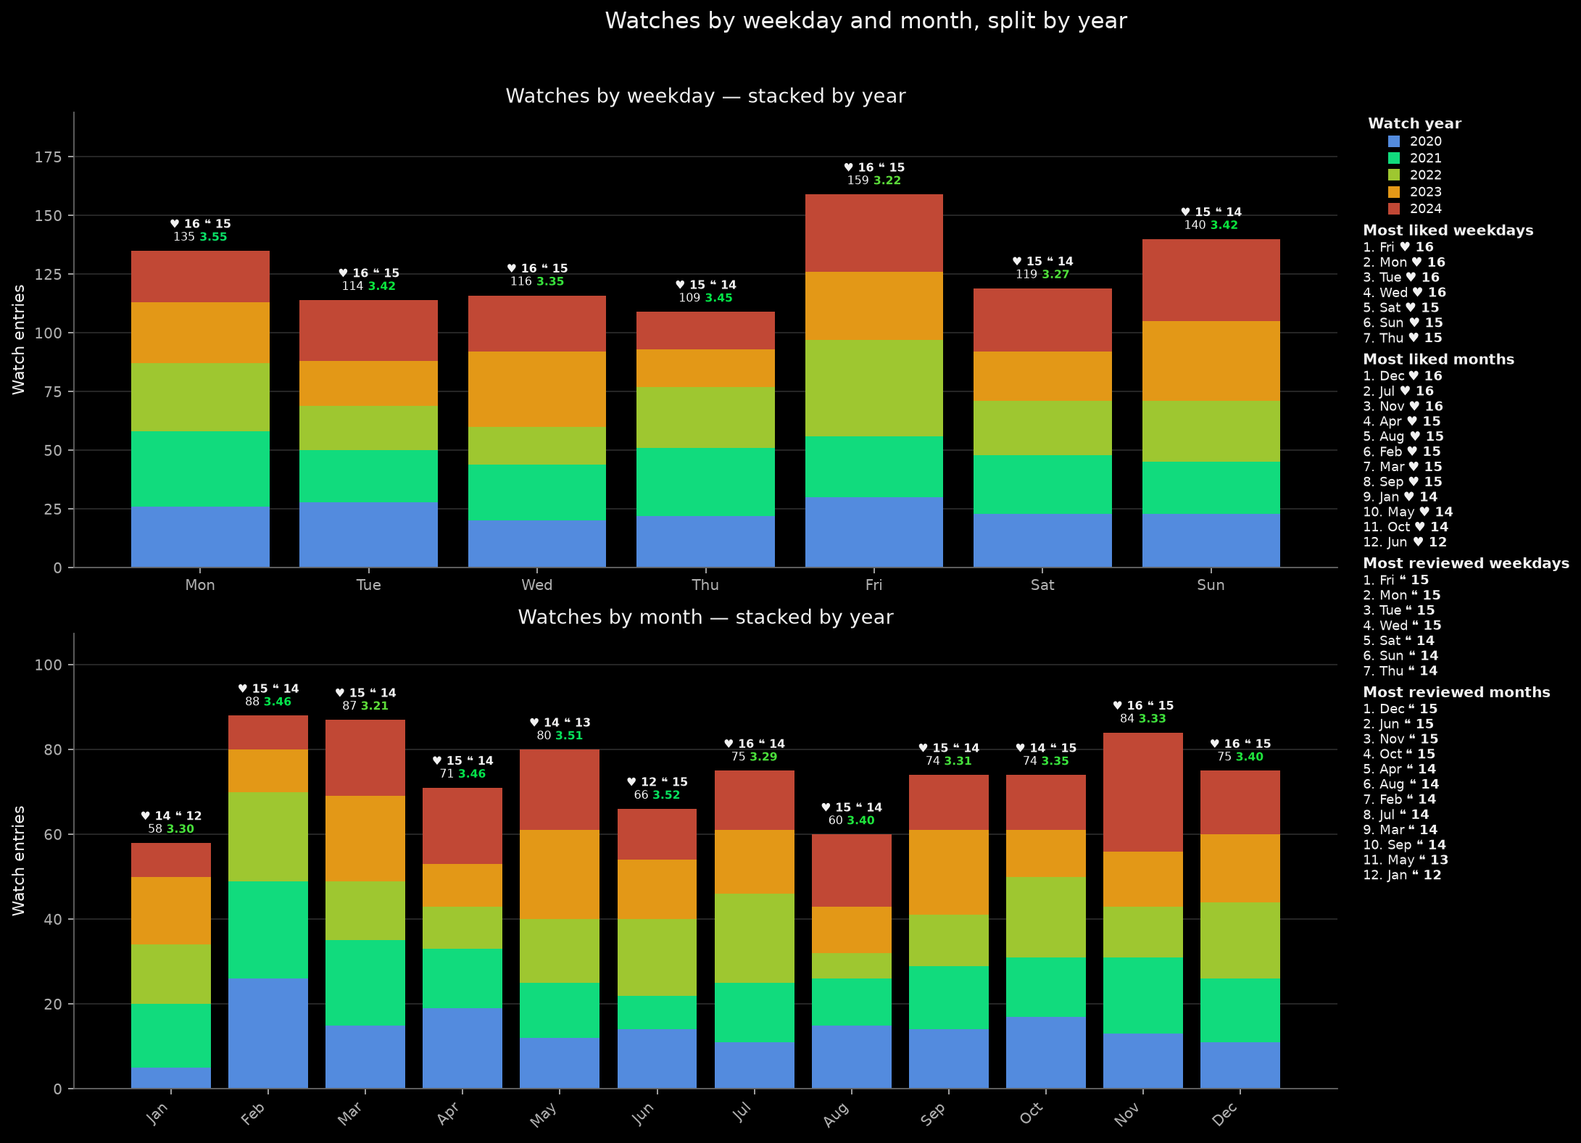
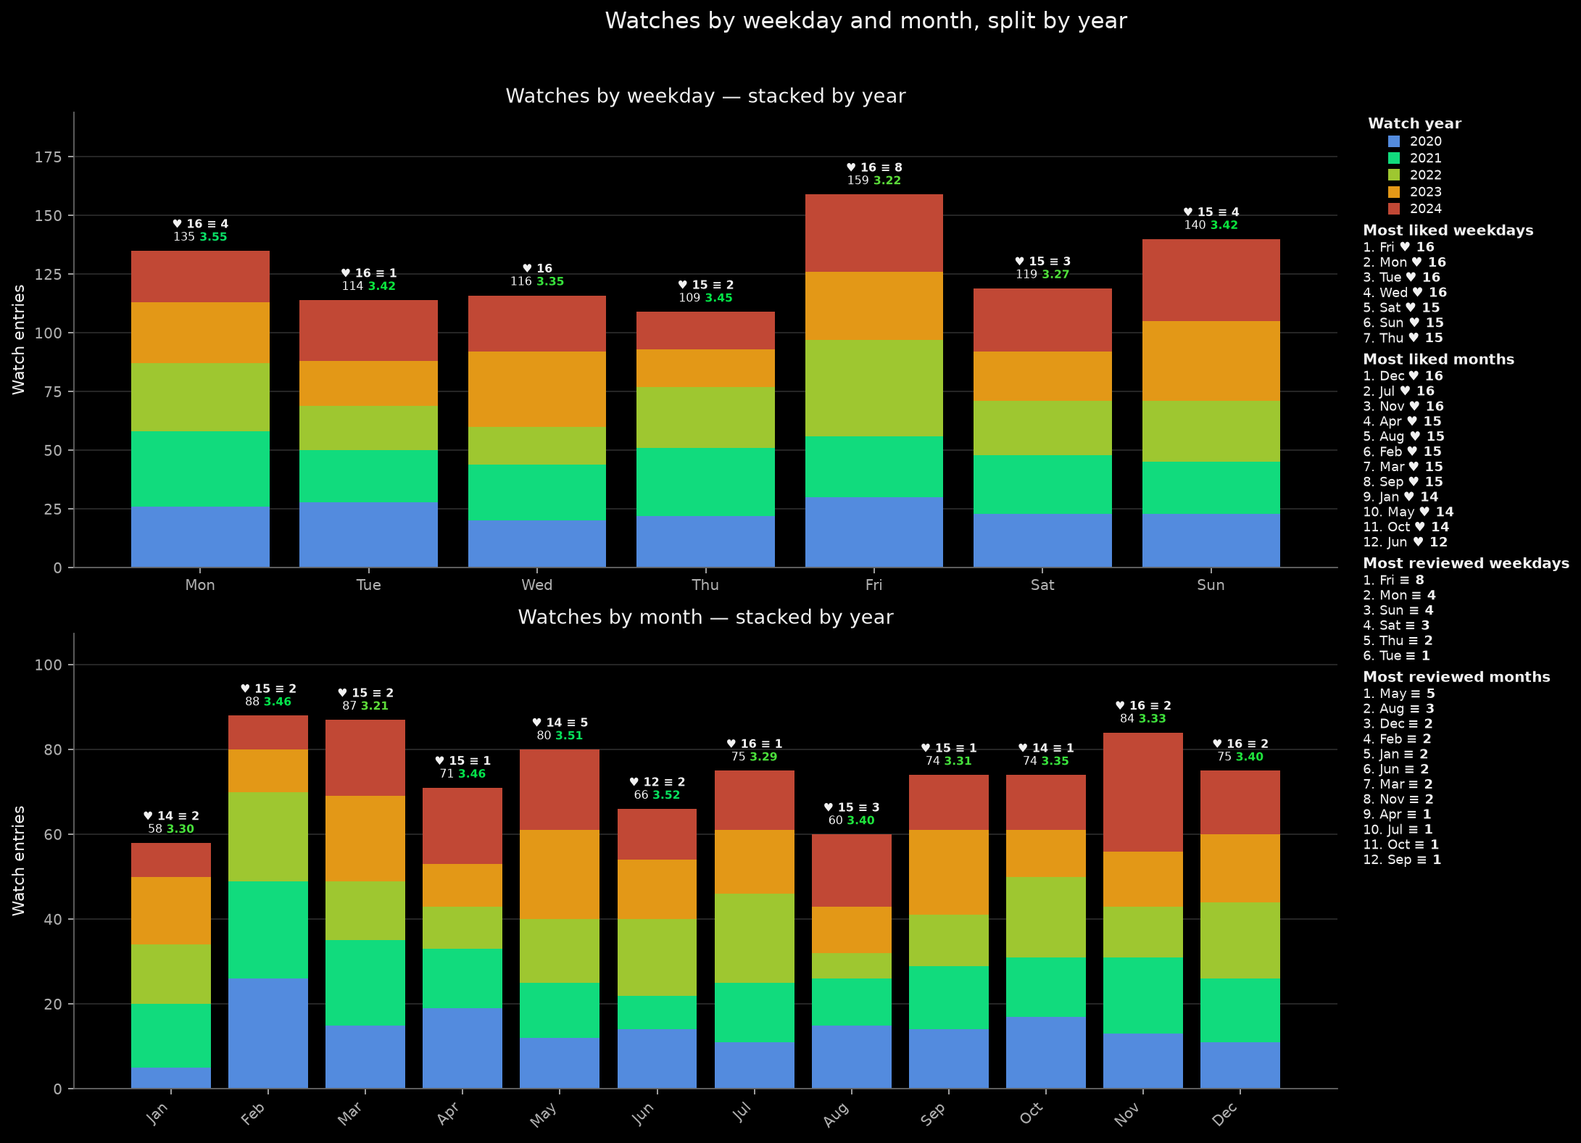
Bold ≡ marks, avg-bar overflow, refresh README gallery.
Reserve ♥/≡ width when ellipsizing avg-rating hbar names; short names and
short bars overflow the full left label then tip. Bold ≡ (and panel counts)
on Most reviewed lists and search HTML. Regenerate docs/images chart PNGs
and captions for ≡, date-bound tips, and the diary side panel.

diff --git a/scripts/letterboxd_top_charts.py b/scripts/letterboxd_top_charts.py
@@ -432,7 +432,7 @@ def draw_watch_year_most_liked_panel(
     Line spacing is compact (display-pixel gaps from measured text height). It
     does not stretch to fill the axes or track bar y-positions on tall hbars.
 
-    Review rows use ``REVIEW_MARK`` (U+2261 ≡).
+    Review rows use bold ``REVIEW_MARK`` (U+2261 ≡) plus a bold count.
     """
     from matplotlib.lines import Line2D
 
@@ -554,8 +554,8 @@ def draw_watch_year_most_liked_panel(
 
         mark_fp = review_mark_fontproperties()
         for rank, (name, count) in enumerate(rank_rows, start=1):
-            # Rank: ``1. Name `` + mark (♥ or ≡) + space + bold count.
-            # Latin and marks stay on DejaVu (theme default).
+            # Rank: ``1. Name `` + bold mark (♥ or ≡) + space + bold count.
+            # Latin and marks stay on DejaVu (theme default). ≡ matches ♥ N weight.
             mark_draw = _mpl_engagement_text(mark)
             head = f"{rank}. {name} "
             head_artist = ax.text(
@@ -581,7 +581,7 @@ def draw_watch_year_most_liked_panel(
                 f"{mark_draw} ",
                 transform=ax.transAxes,
                 fontsize=fontsize,
-                fontweight="normal",
+                fontweight="bold",
                 color=FG,
                 ha="left",
                 va="top",
@@ -1034,20 +1034,20 @@ def chart_rating_hbar(
 ) -> bool:
     """Horizontal bars for TMDB avg tops.
 
-    Names are white with a black stroke and start inside the bar. The label is
-    measured against the bar width minus a small end pad. A bar that holds at
-    least ``SHORT_BAR_NAME_CHARS`` name characters keeps the label inside,
-    ellipsized only when the full name does not fit, so the text reaches nearly
-    to the tip. A shorter bar shows exactly that many characters plus ``...``
-    and overflows to the right past the tip.
+    Names are white with a black stroke. Rank + name + optional ``♥ N`` /
+    ``≡ M`` form one left label. A bar that holds the full label (or at least
+    ``SHORT_BAR_NAME_CHARS`` name characters plus the engagement suffix) keeps
+    that label inside; the name ellipsizes earlier so ♥/≡ still fit. When the
+    natural name is shorter than that threshold, or the bar cannot hold fifteen
+    name characters plus engagement, the whole left label overflows to the
+    right of the bar tip; the mean/(n) tip sits after it with a clear gap.
+    Long-name overflow uses fifteen characters + ``...`` then ♥/≡.
     ascending=False → best at top; True → worst at top.
     The mean to the right is bold and colored on the rating scale. The rated-film
     count sits beside it in regular light text as ``(12)``.
 
-    Category rows may set ``liked_count`` / ``reviewed_count`` (films in that
-    average): the label becomes ``Name ♥ N □ M`` when counts > 0. Film-title
-    rows may set ``liked`` / ``reviewed`` True: bare marks append after the
-    visible title, including after ``...`` truncation.
+    Category rows may set ``liked_count`` / ``reviewed_count``. Film-title rows
+    may set ``liked`` / ``reviewed`` True (bare marks after the visible title).
     """
     import matplotlib.patheffects as path_effects
 
@@ -1135,6 +1135,21 @@ def chart_rating_hbar(
                 hi = mid - 1
         return best
 
+    def engagement_suffix(
+        *,
+        film_liked: bool,
+        film_reviewed: bool,
+        liked_count: int,
+        reviewed_count: int,
+    ) -> str:
+        """Bare ♥/≡ for film rows; `` ♥ N ≡ M`` for category counts; else empty."""
+        if film_liked or film_reviewed:
+            return film_title_with_engagement_marks(
+                "", liked=film_liked, reviewed=film_reviewed
+            )
+        tip = format_engagement_tip(liked_count, reviewed_count)
+        return f" {tip}" if tip else ""
+
     rows_drawn = []
     for (
         yi,
@@ -1162,39 +1177,51 @@ def chart_rating_hbar(
         yi, avg = float(yi), float(avg)
         prefix = f"{rank}. "
         name = str(label)
+        engage = engagement_suffix(
+            film_liked=film_liked,
+            film_reviewed=film_reviewed,
+            liked_count=liked_count,
+            reviewed_count=reviewed_count,
+        )
+        engage_px = name_width(engage) if engage else 0.0
         inside_px = max(0.0, x_px(avg, yi) - end_pad_px - x_px(pad_left, yi))
-        fitted = name_chars_that_fit(prefix, name, inside_px)
-        inside = fitted >= len(name) or fitted >= SHORT_BAR_NAME_CHARS
-        if inside:
-            shown = _fit_text_to_px(
+        # Reserve engagement width so name ellipsizes earlier when needed.
+        name_budget_px = max(0.0, inside_px - engage_px)
+        fitted = name_chars_that_fit(prefix, name, name_budget_px)
+        full_w = name_width(prefix + name + engage)
+
+        if len(name) < SHORT_BAR_NAME_CHARS:
+            # Short natural name: whole left label outside, tip follows.
+            shown = prefix + name + engage
+            inside = False
+        elif full_w <= inside_px:
+            shown = prefix + name + engage
+            inside = True
+        elif fitted >= SHORT_BAR_NAME_CHARS:
+            # Keep inside: truncate name into the reserved budget, then ♥/≡.
+            name_part = _fit_text_to_px(
                 ax,
                 renderer,
                 prefix + name,
-                inside_px,
+                name_budget_px,
                 fontsize=name_fs,
                 fontweight="bold",
                 path_effects=stroke,
                 ellipsis=NAME_ELLIPSIS,
             )
+            shown = name_part + engage
+            inside = True
         else:
-            shown = prefix + name[:SHORT_BAR_NAME_CHARS].rstrip() + NAME_ELLIPSIS
-        # Hearts / review marks sit after the visible (possibly truncated) title.
-        if film_liked or film_reviewed:
-            shown = film_title_with_engagement_marks(
-                shown, liked=film_liked, reviewed=film_reviewed
+            # Short bar / long name: 15 chars + ... + engagement, overflowing.
+            shown = (
+                prefix
+                + name[:SHORT_BAR_NAME_CHARS].rstrip()
+                + NAME_ELLIPSIS
+                + engage
             )
-        elif liked_count > 0 or reviewed_count > 0:
-            shown = category_label_with_engagement_counts(
-                shown, liked_count, reviewed_count
-            )
-        # Keep marks readable: do not clip them away inside short bars.
-        clip_inside = (
-            inside
-            and not film_liked
-            and not film_reviewed
-            and liked_count <= 0
-            and reviewed_count <= 0
-        )
+            inside = False
+
+        clip_inside = inside
         # Optional mark font when theme default lacks ≡ (normally unused).
         note_fp = review_mark_fontproperties()
         main_shown = shown
@@ -1235,10 +1262,12 @@ def chart_rating_hbar(
                 fontweight="bold",
                 color=ON_BAR,
                 path_effects=stroke,
-                clip_on=False,
+                clip_on=clip_inside,
                 zorder=5,
                 fontproperties=note_fp,
             )
+            if clip_inside:
+                note_artist.set_clip_path(bar)
             anchor = note_artist
         rows_drawn.append((anchor, inside, yi, avg, rated))
 
@@ -1255,7 +1284,10 @@ def chart_rating_hbar(
         mean_x = avg + mean_after_bar
         if not inside:
             label_end = txt.get_window_extent(renderer=renderer).x1 + overflow_gap_px
-            mean_x = max(mean_x, float(ax.transData.inverted().transform((label_end, 0))[0]))
+            mean_x = max(
+                mean_x,
+                float(ax.transData.inverted().transform((label_end, 0))[0]),
+            )
         # Mean is bold and rating-colored; ``(k)`` stays regular light text beside it.
         mean_label = f"{avg:.2f}"
         style = count_avg_text_style(mean_label)

diff --git a/scripts/test_letterboxd_top_charts.py b/scripts/test_letterboxd_top_charts.py
@@ -1254,7 +1254,7 @@ def test_top_rewatches_side_panel_no_most_liked_library_reviews(
 def test_release_years_rating_labels_include_engagement_counts(
     tmp_path: Path | None = None,
 ):
-    """Release years higher/lower: in-bar ``1. 2001 ♥ 10 ≡ 12`` when counts > 0."""
+    """Release years: ``1. 2001 ♥ 10 ≡ 12``; year names <15 overflow then tip."""
     out = Path(tmp_path) if tmp_path is not None else Path("/tmp/lb-release-year-engage")
     out.mkdir(parents=True, exist_ok=True)
     rows = [
@@ -1266,11 +1266,16 @@ def test_release_years_rating_labels_include_engagement_counts(
     # Capture text artists from chart_rating_hbar via save hook on top_charts.
     import letterboxd_top_charts as charts
 
-    captured: list = []
+    captured: dict = {"texts": [], "extent": {}}
     real_save = charts.save_dark_figure
 
     def grab(fig, dest, **kwargs):
-        captured.extend([t.get_text() for ax in fig.axes for t in ax.texts])
+        ax = fig.axes[0]
+        renderer = fig.canvas.get_renderer()
+        captured["texts"] = list(ax.texts)
+        captured["extent"] = {
+            t.get_text(): t.get_window_extent(renderer=renderer) for t in ax.texts
+        }
         return real_save(fig, dest, **kwargs)
 
     charts.save_dark_figure = grab
@@ -1283,13 +1288,106 @@ def test_release_years_rating_labels_include_engagement_counts(
         )
     finally:
         charts.save_dark_figure = real_save
-    joined = "\n".join(captured)
-    assert f"1. 2001 {LIKED_HEART} 10 {REVIEW_NOTE} 12" in joined
+    joined = "\n".join(t.get_text() for t in captured["texts"])
+    label = f"1. 2001 {LIKED_HEART} 10 {REVIEW_NOTE} 12"
+    assert label in joined
     assert f"2. 1999 {REVIEW_NOTE} 3" in joined
     assert f"3. 1988 {LIKED_HEART} 2" in joined
     assert "4. 1977" in joined
     assert f"4. 1977 {LIKED_HEART}" not in joined
     assert f"4. 1977 {REVIEW_NOTE}" not in joined
+    # Short year name → whole label outside; tip after it (no overlap).
+    by_text = {t.get_text(): t for t in captured["texts"]}
+    assert by_text[label].get_clip_on() is False
+    assert captured["extent"]["4.50"].x0 > captured["extent"][label].x1
+
+
+def test_avg_hbar_engagement_reserves_space_and_short_name_overflows(
+    tmp_path: Path | None = None,
+):
+    """Ellipsis reserves ♥/≡ inside; name <15 or short bar → whole label outside then tip."""
+    import letterboxd_top_charts as charts
+
+    out = Path(tmp_path) if tmp_path is not None else Path("/tmp/lb-avg-engage-overflow")
+    out.mkdir(parents=True, exist_ok=True)
+    long_name = "Happy Madison Productions International Studios"
+    rows = [
+        # Long bar + long name + engagement: stay inside; name may ellipsize before ♥/≡.
+        {
+            "name": long_name,
+            "avg": 4.6,
+            "rated": 12,
+            "liked_count": 3,
+            "reviewed_count": 2,
+        },
+        # Short natural name: whole label outside even on a mid rating.
+        {
+            "name": "A24",
+            "avg": 2.5,
+            "rated": 5,
+            "liked_count": 4,
+            "reviewed_count": 1,
+        },
+        # Short bar + long name: 15 chars + ... + engagement outside.
+        {
+            "name": "di Bonaventura Pictures",
+            "avg": 0.6,
+            "rated": 3,
+            "liked_count": 1,
+            "reviewed_count": 2,
+        },
+    ]
+    captured: dict = {}
+    real_save = charts.save_dark_figure
+
+    def grab(fig, dest, **kwargs):
+        ax = fig.axes[0]
+        renderer = fig.canvas.get_renderer()
+        captured["texts"] = list(ax.texts)
+        captured["extent"] = {
+            t.get_text(): t.get_window_extent(renderer=renderer) for t in ax.texts
+        }
+        captured["bars"] = [
+            patch.get_window_extent(renderer=renderer) for patch in ax.patches
+        ]
+        real_save(fig, dest, **kwargs)
+
+    charts.save_dark_figure = grab
+    try:
+        assert chart_rating_hbar(
+            rows,
+            out / "engage-overflow.png",
+            title="Studios — lower rating",
+            limit=3,
+        )
+    finally:
+        charts.save_dark_figure = real_save
+
+    by_text = {t.get_text(): t for t in captured["texts"]}
+    short_outside = f"2. A24 {LIKED_HEART} 4 {REVIEW_NOTE} 1"
+    assert short_outside in by_text
+    assert by_text[short_outside].get_clip_on() is False
+    assert captured["extent"]["2.50"].x0 > captured["extent"][short_outside].x1
+
+    # Overflow long name: 15 chars + ... + spaced ♥/≡, tip after.
+    overflow = f"3. di Bonaventura... {LIKED_HEART} 1 {REVIEW_NOTE} 2"
+    assert overflow in by_text
+    assert by_text[overflow].get_clip_on() is False
+    assert captured["extent"]["0.60"].x0 > captured["extent"][overflow].x1
+    short_bar = min(captured["bars"], key=lambda box: box.width)
+    assert captured["extent"][overflow].x0 < short_bar.x1 < captured["extent"][overflow].x1
+
+    # Long inside label keeps engagement; tip sits past the bar (not under the name).
+    inside_labels = [
+        t for t in captured["texts"] if t.get_text().startswith("1. ") and LIKED_HEART in t.get_text()
+    ]
+    assert len(inside_labels) == 1
+    inside = inside_labels[0]
+    assert inside.get_clip_on() is True
+    assert REVIEW_NOTE in inside.get_text()
+    assert inside.get_text().endswith(f"{REVIEW_NOTE} 2")
+    long_bar = max(captured["bars"], key=lambda box: box.width)
+    assert captured["extent"]["4.60"].x0 > long_bar.x1
 
 def test_views_count_bars_show_avg_or_dash(tmp_path: Path | None = None):
     """Year and day count bars: white count, bold colored mean, dash if unrated."""
@@ -1622,6 +1720,7 @@ if __name__ == "__main__":
     test_rating_hbar_long_names_no_overlap()
     test_short_bars_overflow_fifteen_chars_long_bars_keep_name_inside()
     test_ellipsis_reaches_the_bar_tip_when_more_than_fifteen_fit()
+    test_avg_hbar_engagement_reserves_space_and_short_name_overflows()
     test_rating_hbar_worst_skips_short_slate()
     test_watches_by_genre_stacked_count()
     test_non_date_count_charts_include_watched_only()

diff --git a/README.md b/README.md
@@ -12,25 +12,25 @@ You send the ZIP from Letterboxd → Settings → Import & Export → Export You
 
 *The wizard asks one question at a time. Tap a button or type a reply.*
 
-![Bar chart of film watches per year; tips show ♥ / ≡ counts, then count and a bold colored average](docs/images/watches-by-year.png)
+![Bar chart of film watches per year; tips show bold ♥ / ≡ counts, then count and a bold colored average](docs/images/watches-by-year.png)
 
-*Watches per year. Above each bar: `♥ N ≡ M` when likes or reviews fall in that year, then the white count and the bold colored average. Five years use the even palette midpoints (not the three logo knots alone).*
+*Watches per year. Above each bar: bold `♥ N ≡ M` when likes fall among that year’s watches or reviews were logged in that year (`reviews.csv` Date), then the white count and the bold colored average. Five years use the even palette midpoints (not the three logo knots alone).*
 
 ![Weekday and month bar charts stacked by watch year, with Most liked and Most reviewed side lists](docs/images/weekday-month-by-year.png)
 
-*When you watch: weekdays and months, stacked by watch year. Tips are the same count + average pair, with `♥` / `≡` on a line above. The right column is Watch year, then **Most liked weekdays** / **Most liked months**, then **Most reviewed** for each.*
+*When you watch: weekdays and months, stacked by watch year. Tips are the same count + average pair, with bold `♥` / `≡` on a line above (`≡` buckets use review Date). The right column is Watch year, then **Most liked weekdays** / **Most liked months**, then **Most reviewed** for each.*
 
-![Horizontal bars of the best-rated release years with averages and rated-film counts](docs/images/release-years-higher-rating.png)
+![Horizontal bars of the best-rated release years with ♥ / ≡ in the labels and averages at the tip](docs/images/release-years-higher-rating.png)
 
-*Release years with the highest average rating, among years with at least 4 rated films. Bar color follows the rating scale on the left; the tip is the bold colored mean and `(n)` unique rated films.*
+*Release years with the highest average rating, among years with at least 4 rated films. Bar color follows the rating scale on the left. Short year names keep `♥ N` / `≡ M` with the rank label; the tip is the bold colored mean and `(n)` unique rated films, past any overflowing label.*
 
-![Directors with the lowest average rating; short bars overflow fifteen letters; ♥ / ≡ counts sit in the name](docs/images/directors-lower-rating.png)
+![Directors with the lowest average rating; short bars overflow fifteen letters; bold ♥ / ≡ counts sit in the name](docs/images/directors-lower-rating.png)
 
-*Directors with the lowest average rating (at least 4 rated films). A bar too short for 15 letters shows the first 15 and an ellipsis. Liked / reviewed counts appear as `♥ N` / `≡ M` beside the name when N or M is above zero.*
+*Directors with the lowest average rating (at least 4 rated films). A bar too short for 15 name letters shows the first 15 and an ellipsis, then bold `♥ N` / `≡ M`, overflowing right so the tip stays clear. Longer bars keep the label inside and ellipsize the name earlier so the metrics still fit.*
 
-![Twenty directors from a 4.80 average down to 1.00, with ♥ / ≡ counts and a smooth purple-to-burgundy scale](docs/images/directors-higher-rating-20.png)
+![Twenty directors from a 4.80 average down to 1.00, with bold ♥ / ≡ counts and a smooth purple-to-burgundy scale](docs/images/directors-higher-rating-20.png)
 
-*A top 20 across the rating scale (at least 4 rated films): one smooth blend from purple at 4.80, through logo blue, green, and orange, to burgundy at 1.00. Short bars overflow fifteen letters; `♥ N` / `≡ M` sit in the label when present.*
+*A top 20 across the rating scale (at least 4 rated films): one smooth blend from purple at 4.80, through logo blue, green, and orange, to burgundy at 1.00. Short bars overflow fifteen letters; bold `♥ N` / `≡ M` sit in the label when present.*
 
 ![Line chart of average rating by month, with a colored dot, mean above, and (n) below](docs/images/average-rating-by-month.png)
 
@@ -50,7 +50,7 @@ You send the ZIP from Letterboxd → Settings → Import & Export → Export You
 
 ![Horizontal bars of films that appear more than once, with ♥ / ≡ on titles](docs/images/top-rewatches.png)
 
-*Films logged more than once, stacked by watch year. Titles append `♥` / `≡` when liked or reviewed. The tip is count + average (mean of every rated diary row for that film, rewatches included). The side panel keeps **Watch year**; **Most reviewed** lists library-wide films with more than one review (omitted when none). There is no Most liked list on this chart.*
+*Films logged more than once, stacked by watch year. Titles append `♥` / `≡` when liked or reviewed. The tip is count + average (mean of every rated diary row for that film, rewatches included). The side panel keeps **Watch year**; **Most reviewed** (bold `≡` + count) lists library-wide films with more than one review row and is omitted when none qualify. There is no Most liked list on this chart.*
 
 ## Commands
 
@@ -100,7 +100,7 @@ Bar and column charts label each bar with the **count** and the **average rating
 
 **Liked hearts** (`♥`, U+2665 only — never emoji) come from film-level `likes/films.csv` (Name+Year), scoped like the charts. Film-title bars (for example **Most often in the diary**) append `♥` after the visible title, including after a `...` truncation. Average-rating category bars (genres, directors, actors, …) show `♥ N` beside the name when that row’s average set includes N > 0 liked films. Quantitative count tips add `♥ N` only when N > 0: **inline** after count + average on horizontal bars; on a **separate** tip line above the pair on vertical columns. Charts that already show a **Watch year** legend also get a **Most liked** side list under it: top N positions by liked-film count (`1. Name ♥ 12` with bold count); omitted entirely when nothing is liked. The list is a compact text block with tight line spacing (not stretched to bar height). The combined weekday + month figure uses two lists instead of one mixed ranking: **Most liked weekdays** (every weekday with likes, up to all seven) and **Most liked months** (capped by the customize top size). A list with no likes is omitted.
 
-**Review marks** use `≡` (U+2261 IDENTICAL TO — never emoji; no VS15). Source is top-level `reviews.csv` (unique Name+Year for presence; not `likes/reviews.csv`). They follow the same layout rules as likes: bare `≡` after film titles (including after truncation), `≡ N` on average-rating category labels when N > 0, inline after count+avg on horizontal tips, and on a separate tip line on vertical columns (combined with `♥ N` when both apply). Charts with a Watch year legend also get **Most reviewed** directly under **Most liked** (same top-N / weekday+month split rules, compact line spacing), except **Most often in the diary**, which has no Most liked list and ranks **Most reviewed** library-wide by review-row count (only films with more than one review). Watch-date chart tips / Most reviewed buckets use each review’s own `Date`. DejaVu Sans has the glyph (same face as ♥).
+**Review marks** use bold `≡` (U+2261 IDENTICAL TO — never emoji; no VS15), same weight emphasis as bold `♥ N` on average labels. Source is top-level `reviews.csv` (unique Name+Year for presence; not `likes/reviews.csv`). Layout matches likes: bare `≡` after film titles (including after truncation), bold `≡ N` on average-rating category labels when N > 0, bold inline after count+avg on horizontal tips, and on a separate tip line on vertical columns (combined with `♥ N` when both apply). Charts with a Watch year legend also get **Most reviewed** directly under **Most liked** (same top-N / weekday+month split rules, compact line spacing; bold `≡` + bold count), except **Most often in the diary**, which has no Most liked list and ranks **Most reviewed** library-wide by review-row count (only films with more than one review). Watch-date chart tips / Most reviewed buckets use each review’s own `Date`. Search-keyword HTML bolds the mark. DejaVu Sans has the glyph (same face as ♥).
 
 ## Charts
 
